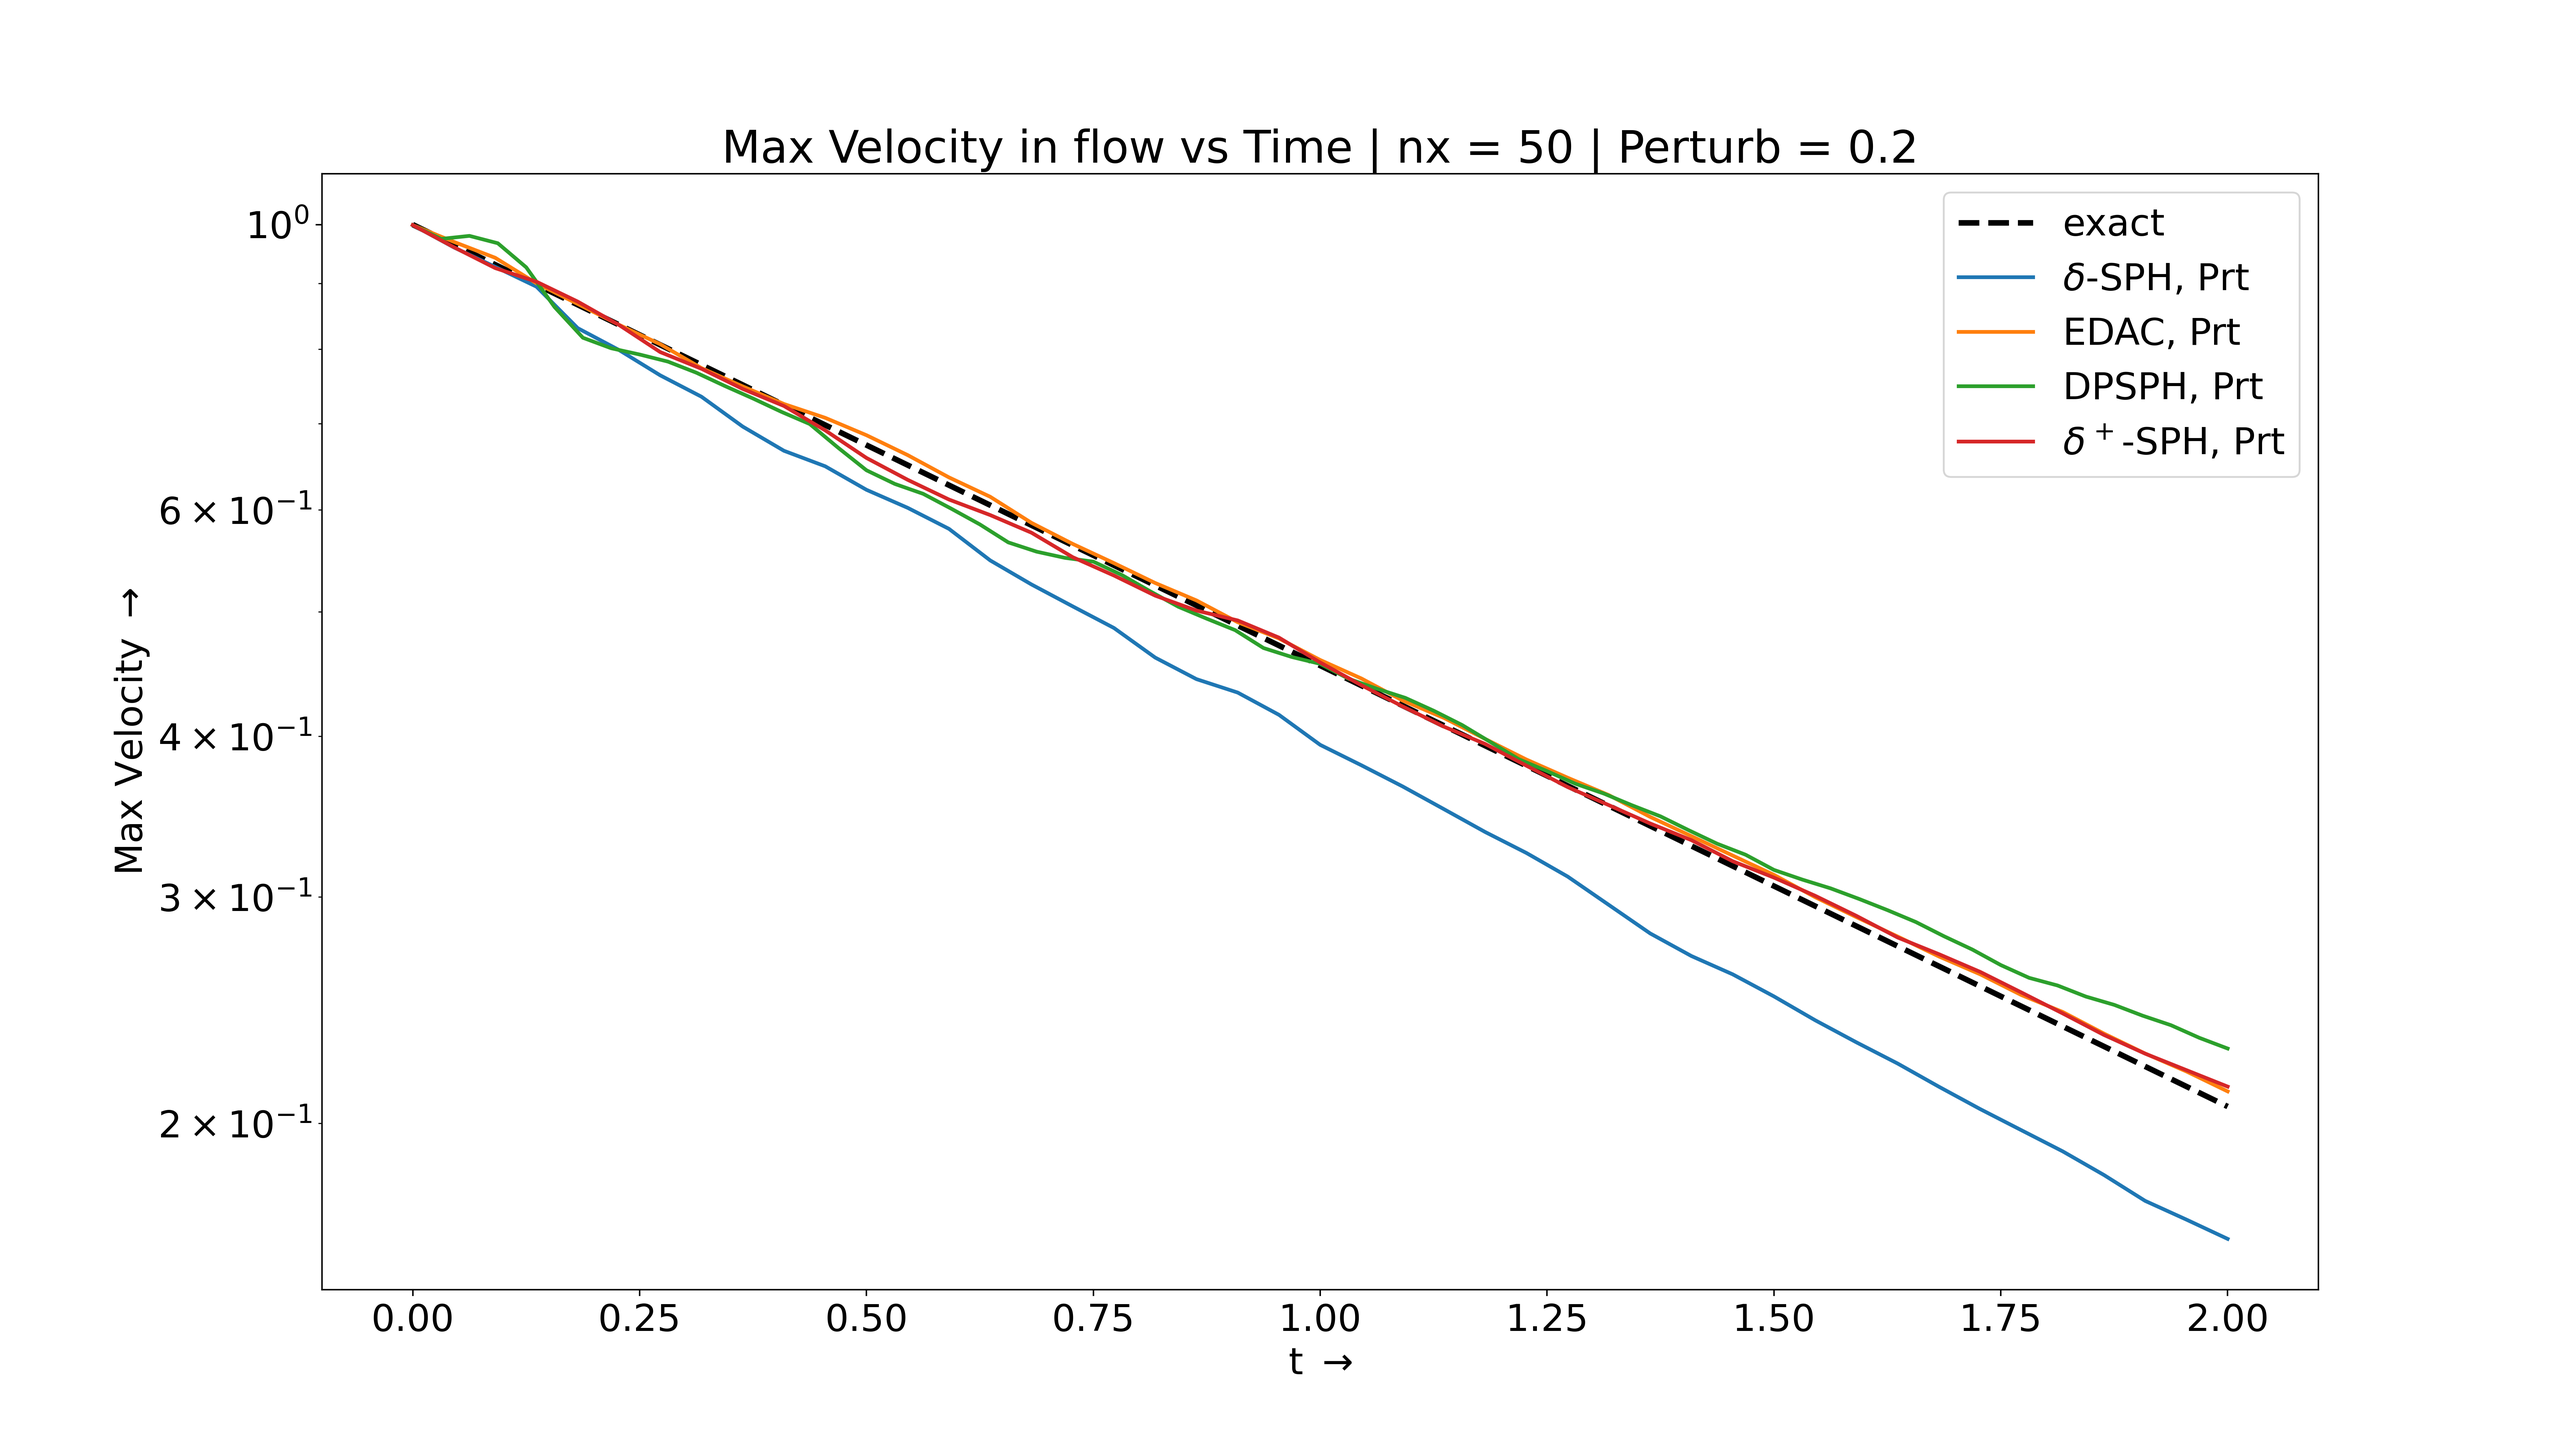
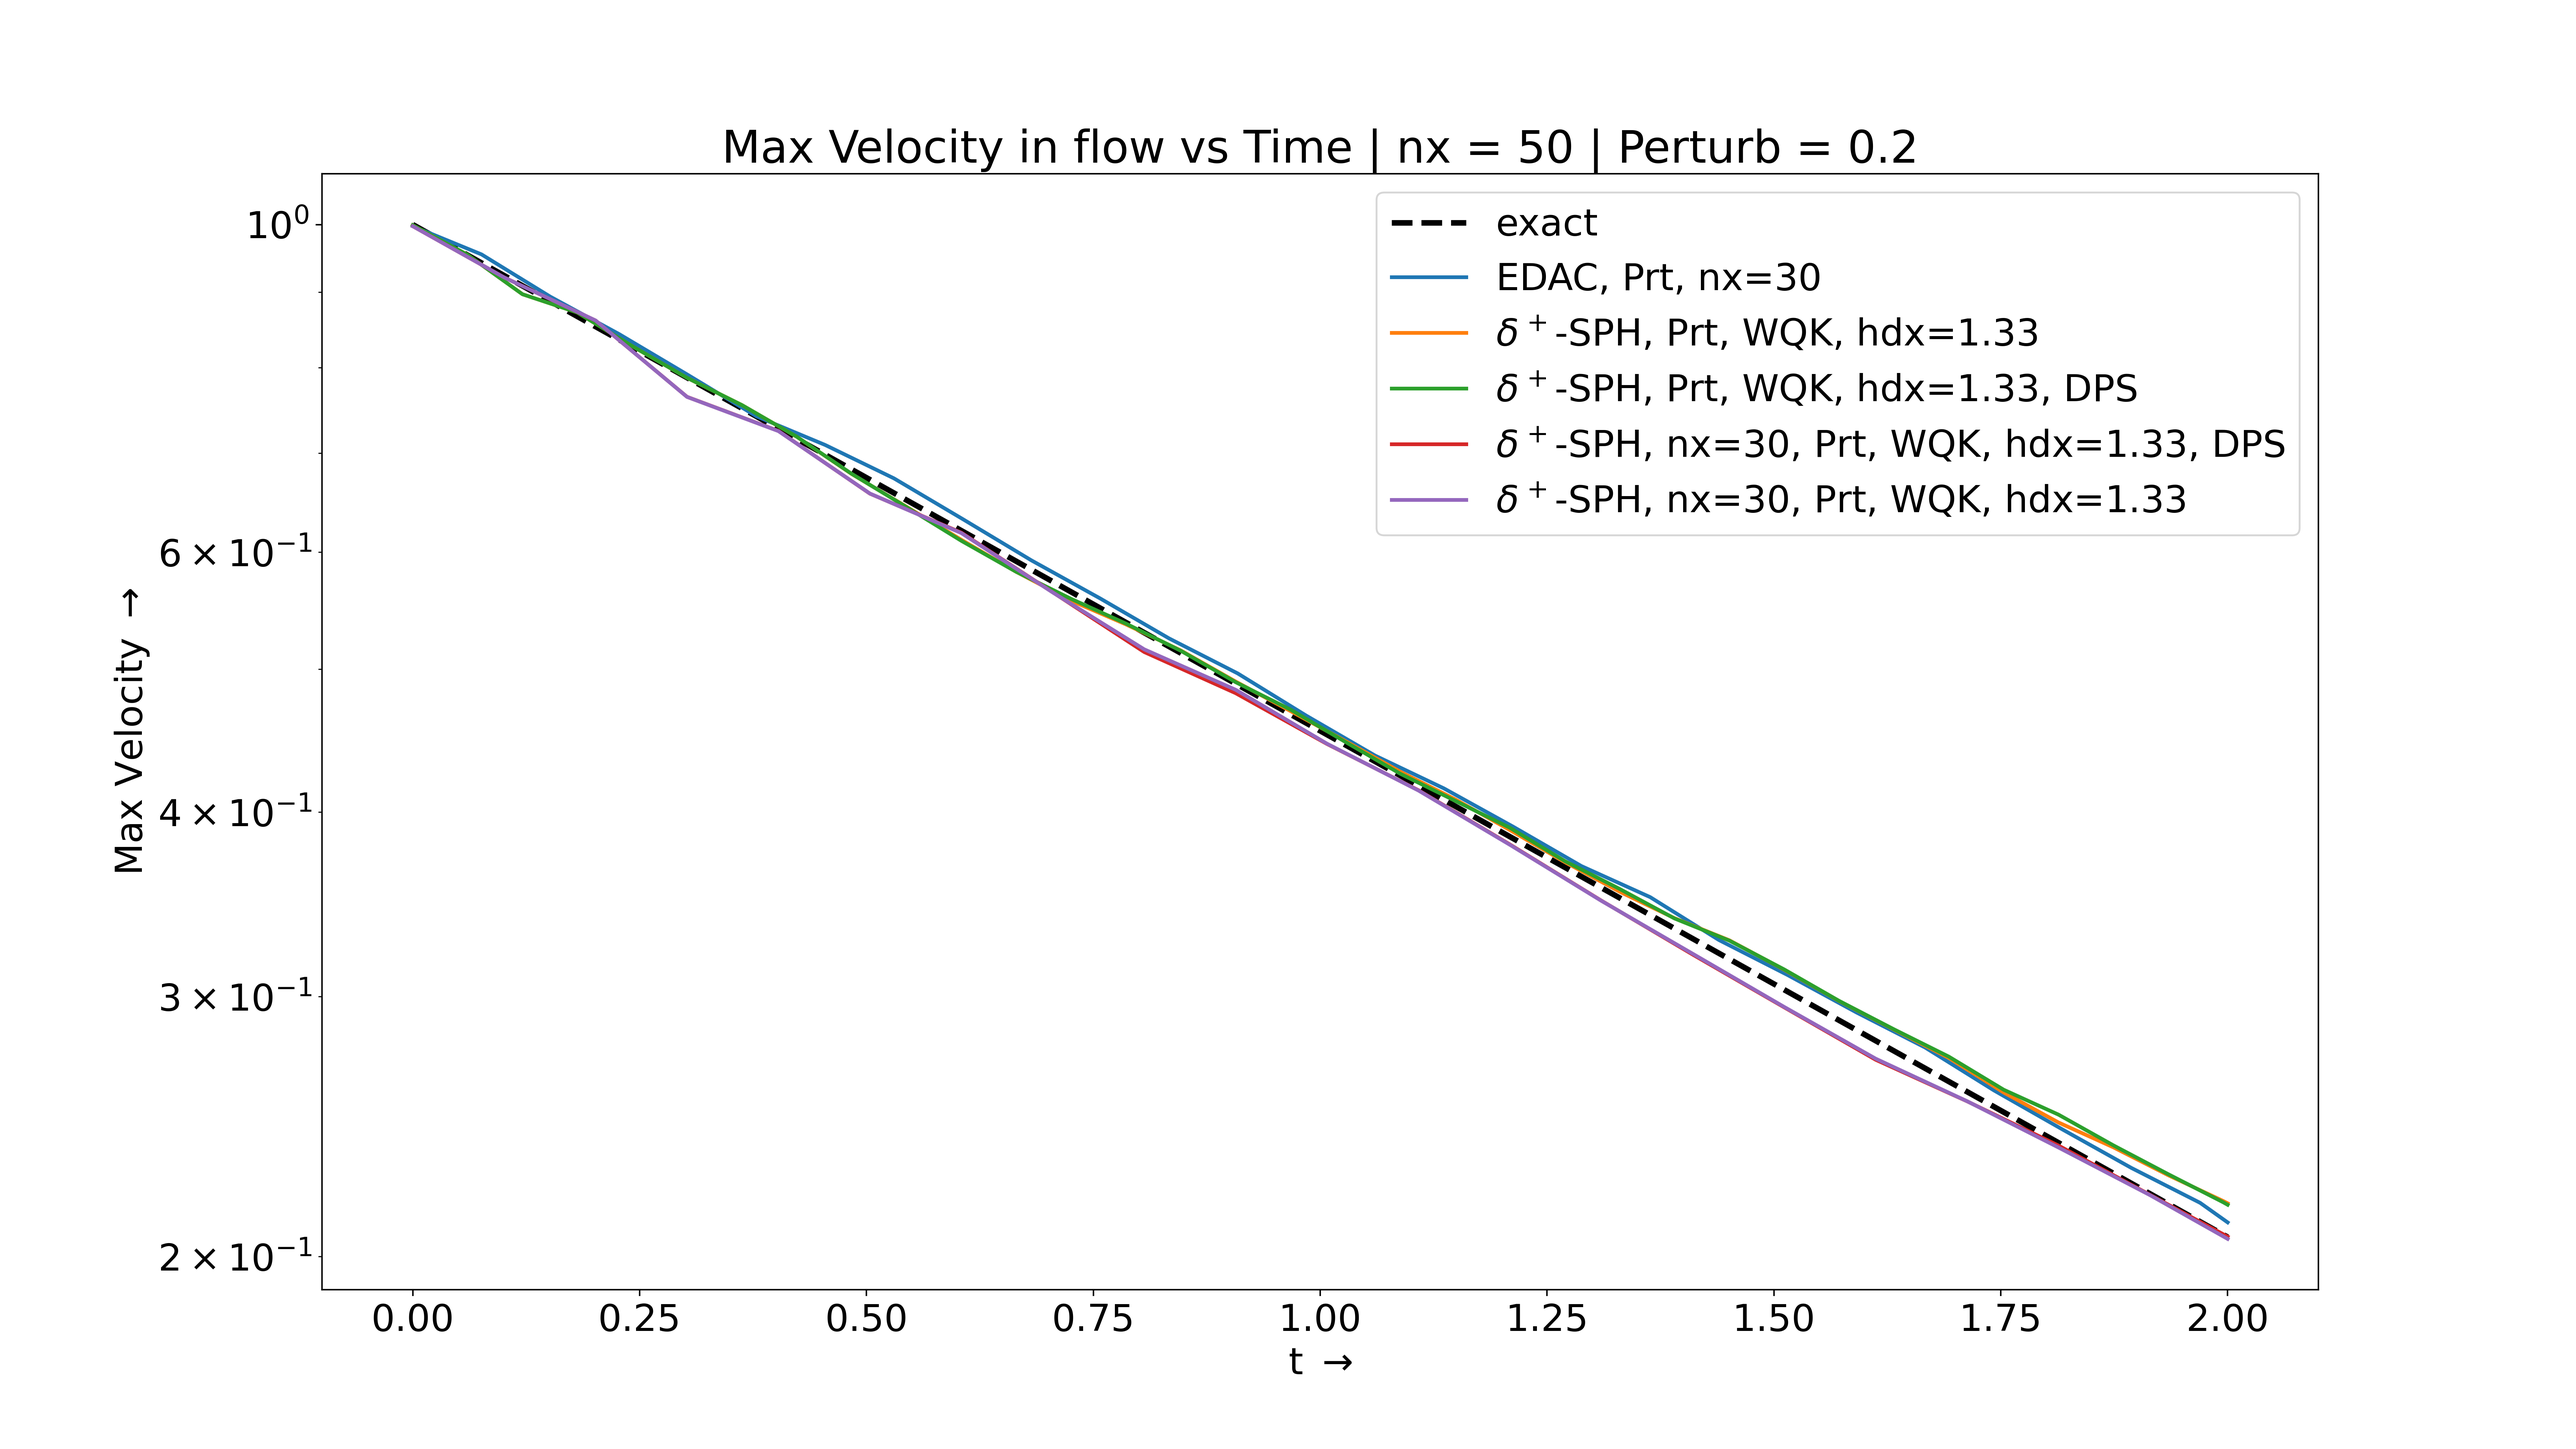
UPDATE: ------------- 1. Fix PST 2. Add DPSPHStep

diff --git a/SLP/dpsph/integrator.py b/SLP/dpsph/integrator.py
@@ -45,48 +45,59 @@ class EulerStep_DPSPH(IntegratorStep):
         d_y[d_idx] += d_DY[d_idx]
 
 
-class TransportVelocityStep_DPSPH(IntegratorStep):
-    """Integrator defined in 'A transport velocity formulation for
-    smoothed particle hydrodynamics', 2013, JCP, 241, pp 292--307
+class DPSPHStep(IntegratorStep):
+    """Standard Predictor Corrector integrator for the $\Delta^+$ formulation
 
-    For a predictor-corrector style of integrator, this integrator
-    should operate only in PEC mode.
+    In the predictor step, the particles are advanced to `t + dt/2`. The 
+    particles are then advanced with the new force computed at this position.
+
+    This integrator can be used in PEC mode.
+
 
     """
-    def initialize(self, d_rho0, d_idx, d_rho):
+    def initialize(self, d_idx, d_x0, d_y0, d_z0, d_x, d_y, d_z,
+                   d_u0, d_v0, d_w0, d_u, d_v, d_w, d_rho0, d_rho):
+        d_x0[d_idx] = d_x[d_idx]
+        d_y0[d_idx] = d_y[d_idx]
+        d_z0[d_idx] = d_z[d_idx]
+
+        d_u0[d_idx] = d_u[d_idx]
+        d_v0[d_idx] = d_v[d_idx]
+        d_w0[d_idx] = d_w[d_idx]
+
         d_rho0[d_idx] = d_rho[d_idx]
 
-    def stage1(self, d_idx, d_u, d_v, d_w, d_au, d_av, d_aw, d_uhat, d_auhat, d_vhat,
-                  d_avhat, d_what, d_awhat, d_x, d_y, d_z, dt, d_rho0, d_arho, d_rho):
+    def stage1(self, d_idx, d_x0, d_y0, d_z0, d_x, d_y, d_z,
+                   d_u0, d_v0, d_w0, d_u, d_v, d_w, d_rho0, d_rho, d_au, d_av,
+                   d_aw, d_ax, d_ay, d_az, d_arho, dt):
         dtb2 = 0.5*dt
+        d_u[d_idx] = d_u0[d_idx] + dtb2*d_au[d_idx]
+        d_v[d_idx] = d_v0[d_idx] + dtb2*d_av[d_idx]
+        d_w[d_idx] = d_w0[d_idx] + dtb2*d_aw[d_idx]
 
-        # velocity update eqn (14)
-        d_u[d_idx] += dtb2*d_au[d_idx]
-        d_v[d_idx] += dtb2*d_av[d_idx]
-        d_w[d_idx] += dtb2*d_aw[d_idx]
+        d_x[d_idx] = d_x0[d_idx] + dtb2 * d_ax[d_idx]
+        d_y[d_idx] = d_y0[d_idx] + dtb2 * d_ay[d_idx]
+        d_z[d_idx] = d_z0[d_idx] + dtb2 * d_az[d_idx]
 
-        # advection velocity update eqn (15)
-        d_uhat[d_idx] = d_u[d_idx] + dtb2*d_auhat[d_idx]
-        d_vhat[d_idx] = d_v[d_idx] + dtb2*d_avhat[d_idx]
-        d_what[d_idx] = d_w[d_idx] + dtb2*d_awhat[d_idx]
-
-        # position update eqn (16)
-        d_x[d_idx] += dt*d_uhat[d_idx]
-        d_y[d_idx] += dt*d_vhat[d_idx]
-        d_z[d_idx] += dt*d_what[d_idx]
-
+        # Update densities and smoothing lengths from the accelerations
         d_rho[d_idx] = d_rho0[d_idx] + dtb2 * d_arho[d_idx]
 
-    def stage2(self, d_idx, d_u, d_v, d_w, d_au, d_av, d_aw, d_vmag2, dt, d_rho0, d_arho, d_rho):
-        dtb2 = 0.5*dt
+    def stage2(self, d_idx, d_x0, d_y0, d_z0, d_x, d_y, d_z, d_DX, d_DY, d_DZ,
+                   d_u0, d_v0, d_w0, d_u, d_v, d_w, d_rho0, d_rho, d_au, d_av,
+                   d_aw, d_ax, d_ay, d_az, d_arho, dt):
 
-        # corrector update eqn (17)
-        d_u[d_idx] += dtb2*d_au[d_idx]
-        d_v[d_idx] += dtb2*d_av[d_idx]
-        d_w[d_idx] += dtb2*d_aw[d_idx]
+        d_u[d_idx] = d_u0[d_idx] + dt*d_au[d_idx]
+        d_v[d_idx] = d_v0[d_idx] + dt*d_av[d_idx]
+        d_w[d_idx] = d_w0[d_idx] + dt*d_aw[d_idx]
 
-        # magnitude of velocity squared
-        d_vmag2[d_idx] = (d_u[d_idx]*d_u[d_idx] + d_v[d_idx]*d_v[d_idx] +
-                          d_w[d_idx]*d_w[d_idx])
-        
+        d_x[d_idx] = d_x0[d_idx] + dt * d_ax[d_idx]
+        d_y[d_idx] = d_y0[d_idx] + dt * d_ay[d_idx]
+        d_z[d_idx] = d_z0[d_idx] + dt * d_az[d_idx]
+
+        # Update densities and smoothing lengths from the accelerations
         d_rho[d_idx] = d_rho0[d_idx] + dt * d_arho[d_idx]
+
+
+        d_x[d_idx] += d_DX[d_idx]
+        d_y[d_idx] += d_DY[d_idx]
+        d_z[d_idx] += d_DZ[d_idx]

diff --git a/SLP/dpsph/equations.py b/SLP/dpsph/equations.py
@@ -379,7 +379,7 @@ class PST(Equation):
         M = declare('matrix(3,3)')
         res = declare('matrix(3)')
 
-        for i in range(3):
+        for j in range(3):
             deltaR[j] = 0.0
 
         rhoi = d_rho[d_idx]
@@ -390,7 +390,7 @@ class PST(Equation):
             # Case - 2 & 3
             ##################
 
-            # Calculate W(\delta p) value
+            # Calculate W(\delta s) value
             delta_s = d_delta_s[d_idx]
             w_delta_s = SPH_KERNEL.kernel(xij, delta_s, self.H)
 
@@ -399,7 +399,6 @@ class PST(Equation):
 
                 rhoj = s_rho[s_idx]
                 mj = s_m[s_idx]
-                Vj = mj/rhoj
 
                 xij[0] = d_x[d_idx] - s_x[s_idx]
                 xij[1] = d_y[d_idx] - s_y[s_idx]
@@ -415,10 +414,10 @@ class PST(Equation):
                 ################################################################
 
                 # Calcuate fij
-                fij = self.R_coeff * pow( (wij/w_delta_s), self.n_exp )
+                fij = self.R_coeff * pow((wij/w_delta_s), self.n_exp)
 
                 # Calcuate multiplicative factor
-                fac = (1.0 + fij)*( mj/(rhoi+rhoj) )
+                fac = (1.0 + fij)*(mj/(rhoi+rhoj))
 
                 # Sum \delta r_i
                 for j in range(n):
@@ -432,16 +431,16 @@ class PST(Equation):
 
                 if rh > self.Rh:
                     # Check Rh condition
-                    d_DX[d_idx] += 0.0
-                    d_DY[d_idx] += 0.0
-                    d_DZ[d_idx] += 0.0
+                    d_DX[d_idx] = 0.0
+                    d_DY[d_idx] = 0.0
+                    d_DZ[d_idx] = 0.0
                     if self.saveAllDRh == True:    
-                        d_DRh[d_idx] += rh
+                        d_DRh[d_idx] = rh
                 else:
-                    d_DX[d_idx] += deltaR[0]
-                    d_DY[d_idx] += deltaR[1]
-                    d_DZ[d_idx] += deltaR[2]
-                    d_DRh[d_idx] += rh
+                    d_DX[d_idx] = deltaR[0]
+                    d_DY[d_idx] = deltaR[1]
+                    d_DZ[d_idx] = deltaR[2]
+                    d_DRh[d_idx] = rh
             
             elif lmdai <= 0.75:
                 ##################
@@ -472,23 +471,23 @@ class PST(Equation):
 
                 if rh > self.Rh:
                     # Check Rh condition
-                    d_DX[d_idx] += 0.0
-                    d_DY[d_idx] += 0.0
-                    d_DZ[d_idx] += 0.0
+                    d_DX[d_idx] = 0.0
+                    d_DY[d_idx] = 0.0
+                    d_DZ[d_idx] = 0.0
                     if self.saveAllDRh == True:    
-                        d_DRh[d_idx] += rh
+                        d_DRh[d_idx] = rh
                 else:
-                    d_DX[d_idx] += deltaR[0]
-                    d_DY[d_idx] += deltaR[1]
-                    d_DZ[d_idx] += deltaR[2]
-                    d_DRh[d_idx] += rh
+                    d_DX[d_idx] = deltaR[0]
+                    d_DY[d_idx] = deltaR[1]
+                    d_DZ[d_idx] = deltaR[2]
+                    d_DRh[d_idx] = rh
 
         else:
             ##################
             # Case - 1
             ##################
 
-            d_DX[d_idx] += 0.0
-            d_DY[d_idx] += 0.0
-            d_DZ[d_idx] += 0.0
-            d_DRh[d_idx] += 0.0
+            d_DX[d_idx] = 0.0
+            d_DY[d_idx] = 0.0
+            d_DZ[d_idx] = 0.0
+            d_DRh[d_idx] = 0.0

diff --git a/SLP/Taylor Green Vortex/Taylor_Green-PySPH.py b/SLP/Taylor Green Vortex/Taylor_Green-PySPH.py
@@ -78,7 +78,7 @@ class Taylor_Green(Application):
         '''
 
         # Simulation Parameters
-        self.nx = 50
+        self.nx = 30
         self.perturb = 0.2 # Perturbation factor
         self.re = 100.0
         self.U = 1.0
@@ -86,7 +86,7 @@ class Taylor_Green(Application):
         self.rho0 = 1.0
 
         self.c0 = 10.0
-        self.hdx = 1.0
+        self.hdx = 1.33
 
         # Calculate simulation parameters
         self.nu = self.L * self.U/self.re
@@ -104,7 +104,8 @@ class Taylor_Green(Application):
         dt_force = 0.25 * 1.0
 
         self.dt = min(dt_cfl, dt_viscous, dt_force)
-        self.tf = self.dt*200#2.0
+        self.tf = 2.0
+        #self.tf = self.dt*70
 
         # Print parameters
         print('dx : ', self.dx)
@@ -167,9 +168,10 @@ class Taylor_Green(Application):
         '''
         Define solver
         '''
-        kernel = QuinticSpline(dim=2)
+        kernel = WendlandQuintic(dim=2) #QuinticSpline(dim=2)
         
-        integrator = EulerIntegrator(fluid=EulerStep())#PECIntegrator(fluid = WCSPHStep())
+        from SLP.dpsph.integrator import DPSPHStep
+        integrator = PECIntegrator(fluid = WCSPHStep())
 
         solver = Solver(
             kernel=kernel, dim=2, integrator=integrator, dt=self.dt, tf=self.tf, 
@@ -242,7 +244,10 @@ class Taylor_Green(Application):
                 GradientCorrection(dest='fluid', sources=['fluid'], dim=2, tol=0.1), 
                 ContinuityEquationDeltaSPHPreStep(dest='fluid', sources=['fluid']),
                 PST_PreStep_2(dest='fluid', sources=['fluid'], dim=2),
-                PST(dest='fluid', sources=['fluid'], dim=2, H=self.h0, Uc0=self.c0, Rh=0.5, saveAllDRh=True),
+                PST(
+                    dest='fluid', sources=['fluid'], dim=2, H=self.h0, 
+                    Uc0=self.c0, Rh=0.05, saveAllDRh=False
+                ),
             
             ],real=True
             ),

diff --git a/SLP/Taylor Green Vortex/plot_pysph_testing.py b/SLP/Taylor Green Vortex/plot_pysph_testing.py
@@ -9,16 +9,20 @@ plt.rcParams.update({'font.size': 20})
 file_base = '/home/prajwal/Desktop/Winter_Project/SLP-Smoothed-Particle-Hydrodynamics/SLP/Taylor Green Vortex/PySPH-Testing/'
 
 
-sph_schm = ['01', '08', '03', '07']
+sph_schm = ['14', '16', '17', '18', '19']#['01', '08', '03', '07', '16', '17']
 
 sph_schm_legend = {
     '00':  r'$\delta$-SPH', '01': r'$\delta$-SPH, Prt', '02': 'DPSPH-SPH', 
     '03': 'DPSPH, Prt', '04': 'Case 1', '05': 'Case 2',
-    '06': r'$\delta^+$-SPH', '07': r'$\delta^+$-SPH, Prt', '08': 'EDAC, Prt',
+    '06': r'$\delta^+$-SPH', '07': r'$\delta^+$-SPH, Prt, QS, hdx=1', '08': 'EDAC, Prt',
     '09': 'EDAC', '10': r'$\delta^+$-SPH, Prt, TEOS', 
     '11': r'$\delta^+$-SPH, Prt, nx=30',
     '12': r'$\delta^+$-SPH, Prt, nx=30', '13': r'$\delta$-SPH, Prt, nx=30', 
-    '14': 'EDAC, Prt, nx=30',
+    '14': 'EDAC, Prt, nx=30', '15':  r'$\delta^+$-SPH, Prt, WQK, hdx=2',
+    '16': r'$\delta^+$-SPH, Prt, WQK, hdx=1.33', 
+    '17': r'$\delta^+$-SPH, Prt, WQK, hdx=1.33, DPS',
+    '18': r'$\delta^+$-SPH, nx=30, Prt, WQK, hdx=1.33, DPS',
+    '19': r'$\delta^+$-SPH, nx=30, Prt, WQK, hdx=1.33',
     '20': 'Check1', '21': 'Check2'
     }
 title_additional = ' | nx = 50 | Perturb = 0.2'
@@ -169,8 +173,9 @@ for schm in sph_schm:
     RT_x.append(sph_schm_legend[schm])
     
 # Plotting
-plt.rcParams.update({'font.size': 14})
-fig, ax = plt.subplots(figsize=(19.20,10.80))
+plt.rcParams.update({'font.size': 10})
+sz = (22,10.8)
+fig, ax = plt.subplots(figsize=sz)
 
 # Horizontal Bar Plot 
 ax.barh(RT_x, RT_y, height=0.4)

diff --git a/SLP/Taylor Green Vortex/PySPH-Testing/README.md b/SLP/Taylor Green Vortex/PySPH-Testing/README.md
@@ -33,7 +33,13 @@
 
 * 14 - `pysph run taylor_green --openmp --nx 30 --pfreq 100 --scheme edac --perturb 0.2`
 
+* 15 - `Taylor_Green-PySPH.py --openmp --pfreq 100` - nx = 30 | perturb = 0.2 | c0 = 10.0 | IsothermalEOS, Spatial_Acceleration, LaminarViscosityDeltaSPHPreStep - Correct Order | WendlandQuintic, hdx = 2 | PECIntegrator
+
+* 16- `Taylor_Green-PySPH.py --openmp --pfreq 100` - nx = 30 | perturb = 0.2 | c0 = 10.0 | IsothermalEOS, Spatial_Acceleration, LaminarViscosityDeltaSPHPreStep - Correct Order | WendlandQuintic, hdx = 1.33 | PECIntegrator
+
+* 17- `Taylor_Green-PySPH.py --openmp --pfreq 100` - nx = 30 | perturb = 0.2 | c0 = 10.0 | IsothermalEOS, Spatial_Acceleration, LaminarViscosityDeltaSPHPreStep - Correct Order | WendlandQuintic, hdx = 1.33 | PECIntegrator(fluid = DPSPHStep())
 
 
 
-* check - **Same as 00**
+
+* check - **Same as 00**    
